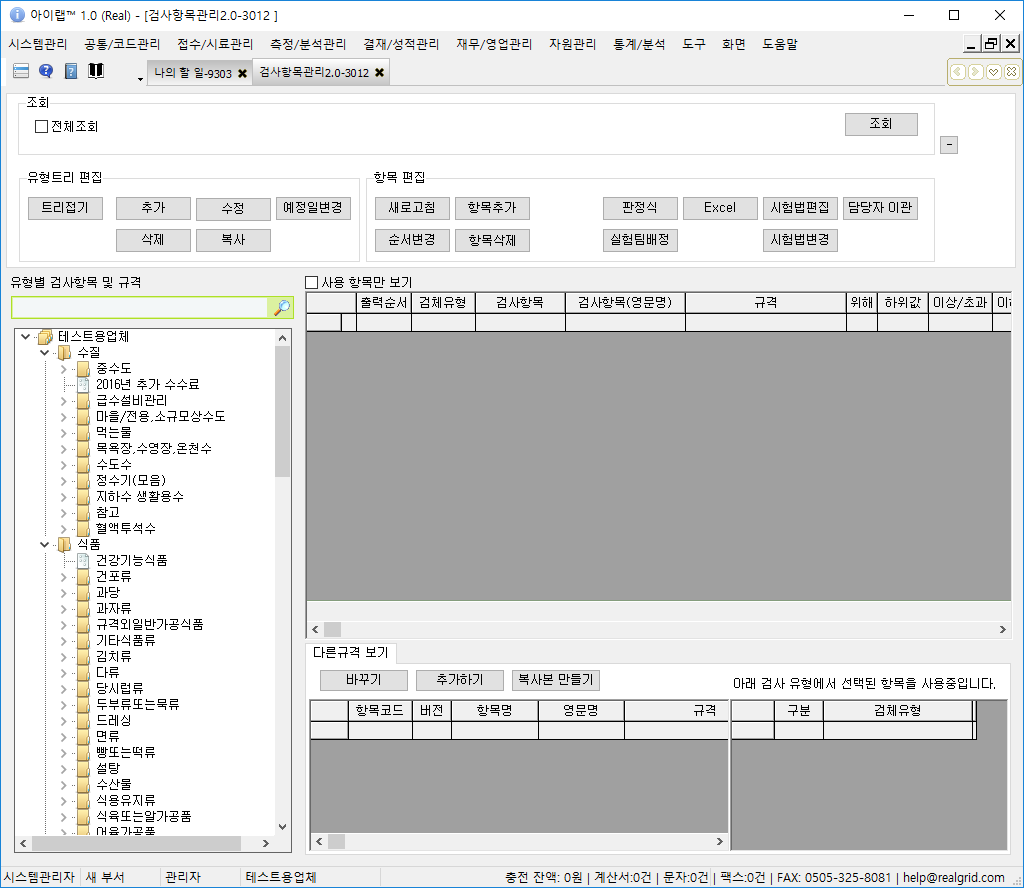
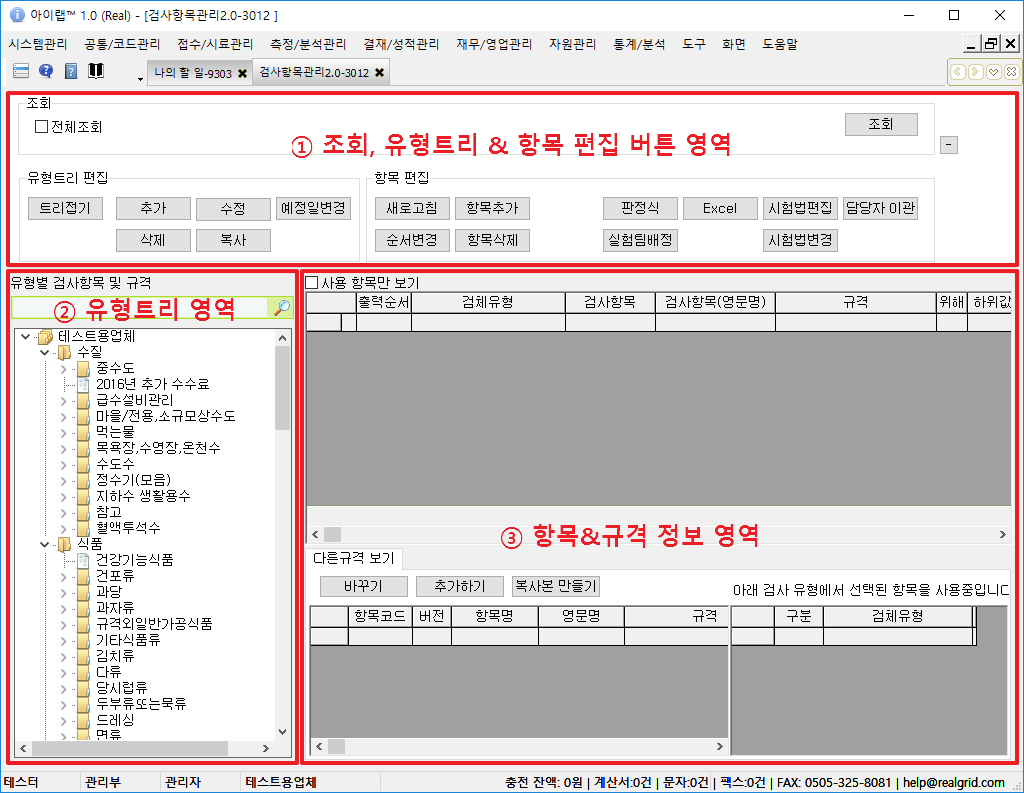
004-02검사항목관리2.0 화면설명 수정

Changed region(s): [[0.0, 0.0, 1.0, 1.0], [0.9062, 0.0, 0.9375, 0.0303]]

diff --git a/004측정분석관리/004-02검사항목관리.md b/004측정분석관리/004-02검사항목관리.md
@@ -1,12 +1,18 @@
 # 검사항목관리2.0
 
+## 개요
+
+> 아이랩에서 사용되는 모든 유형과 항목들에 대한 설정이 가능한 화면입니다.
+
+
+
 <!-- TOC depthFrom:2 depthTo:6 withLinks:1 updateOnSave:1 orderedList:0 -->
 
 - [화면 설명](#화면-설명)
   - [전체조회](#전체조회)
   - [유형트리](#유형트리)
   - [항목정보](#항목정보)
-- [버튼 설명](#버튼-설명)<!-- 트리접기, 추가, 삭제, 수정, 복사, 예정일변경 -->
+- [화면 버튼](#버튼-설명)<!-- 트리접기, 추가, 삭제, 수정, 복사, 예정일변경 -->
   - [트리접기](#트리접기)
   - [추가](#추가)
   - [삭제](#삭제)
@@ -21,8 +27,11 @@
 
 ![](/assets/004측정분석관리/004-02/001전체화면.png)
 
-검사항목관리2.0 화면의 전체화면입니다.  
-위쪽 영역은 **조회** 및 **버튼**들로, 왼쪽 영역은 **유형트리** 목록으로, 오른쪽 영역은 **항목**의 정보들로 구성되어있습니다.
+검사항목관리2.0 화면의 전체화면입니다.
+
+**①** 모든 `항목`을 조회하는 버튼과 `유형,항목`을 `설정`할 수 있는 버튼들로 구성되어있습니다.  
+**②** `유형트리` 영역으로 해당 기관내에 존재하는 모든 유형에 대한 정보를 확인할 수 있습니다.  
+**③** `유형트리 영역`에서 선택한 유형에 존재하는 `항목`들에 대한 정보와 `규격`을 확인할 수 있는 영역입니다.  
 
 ### 전체조회
 
